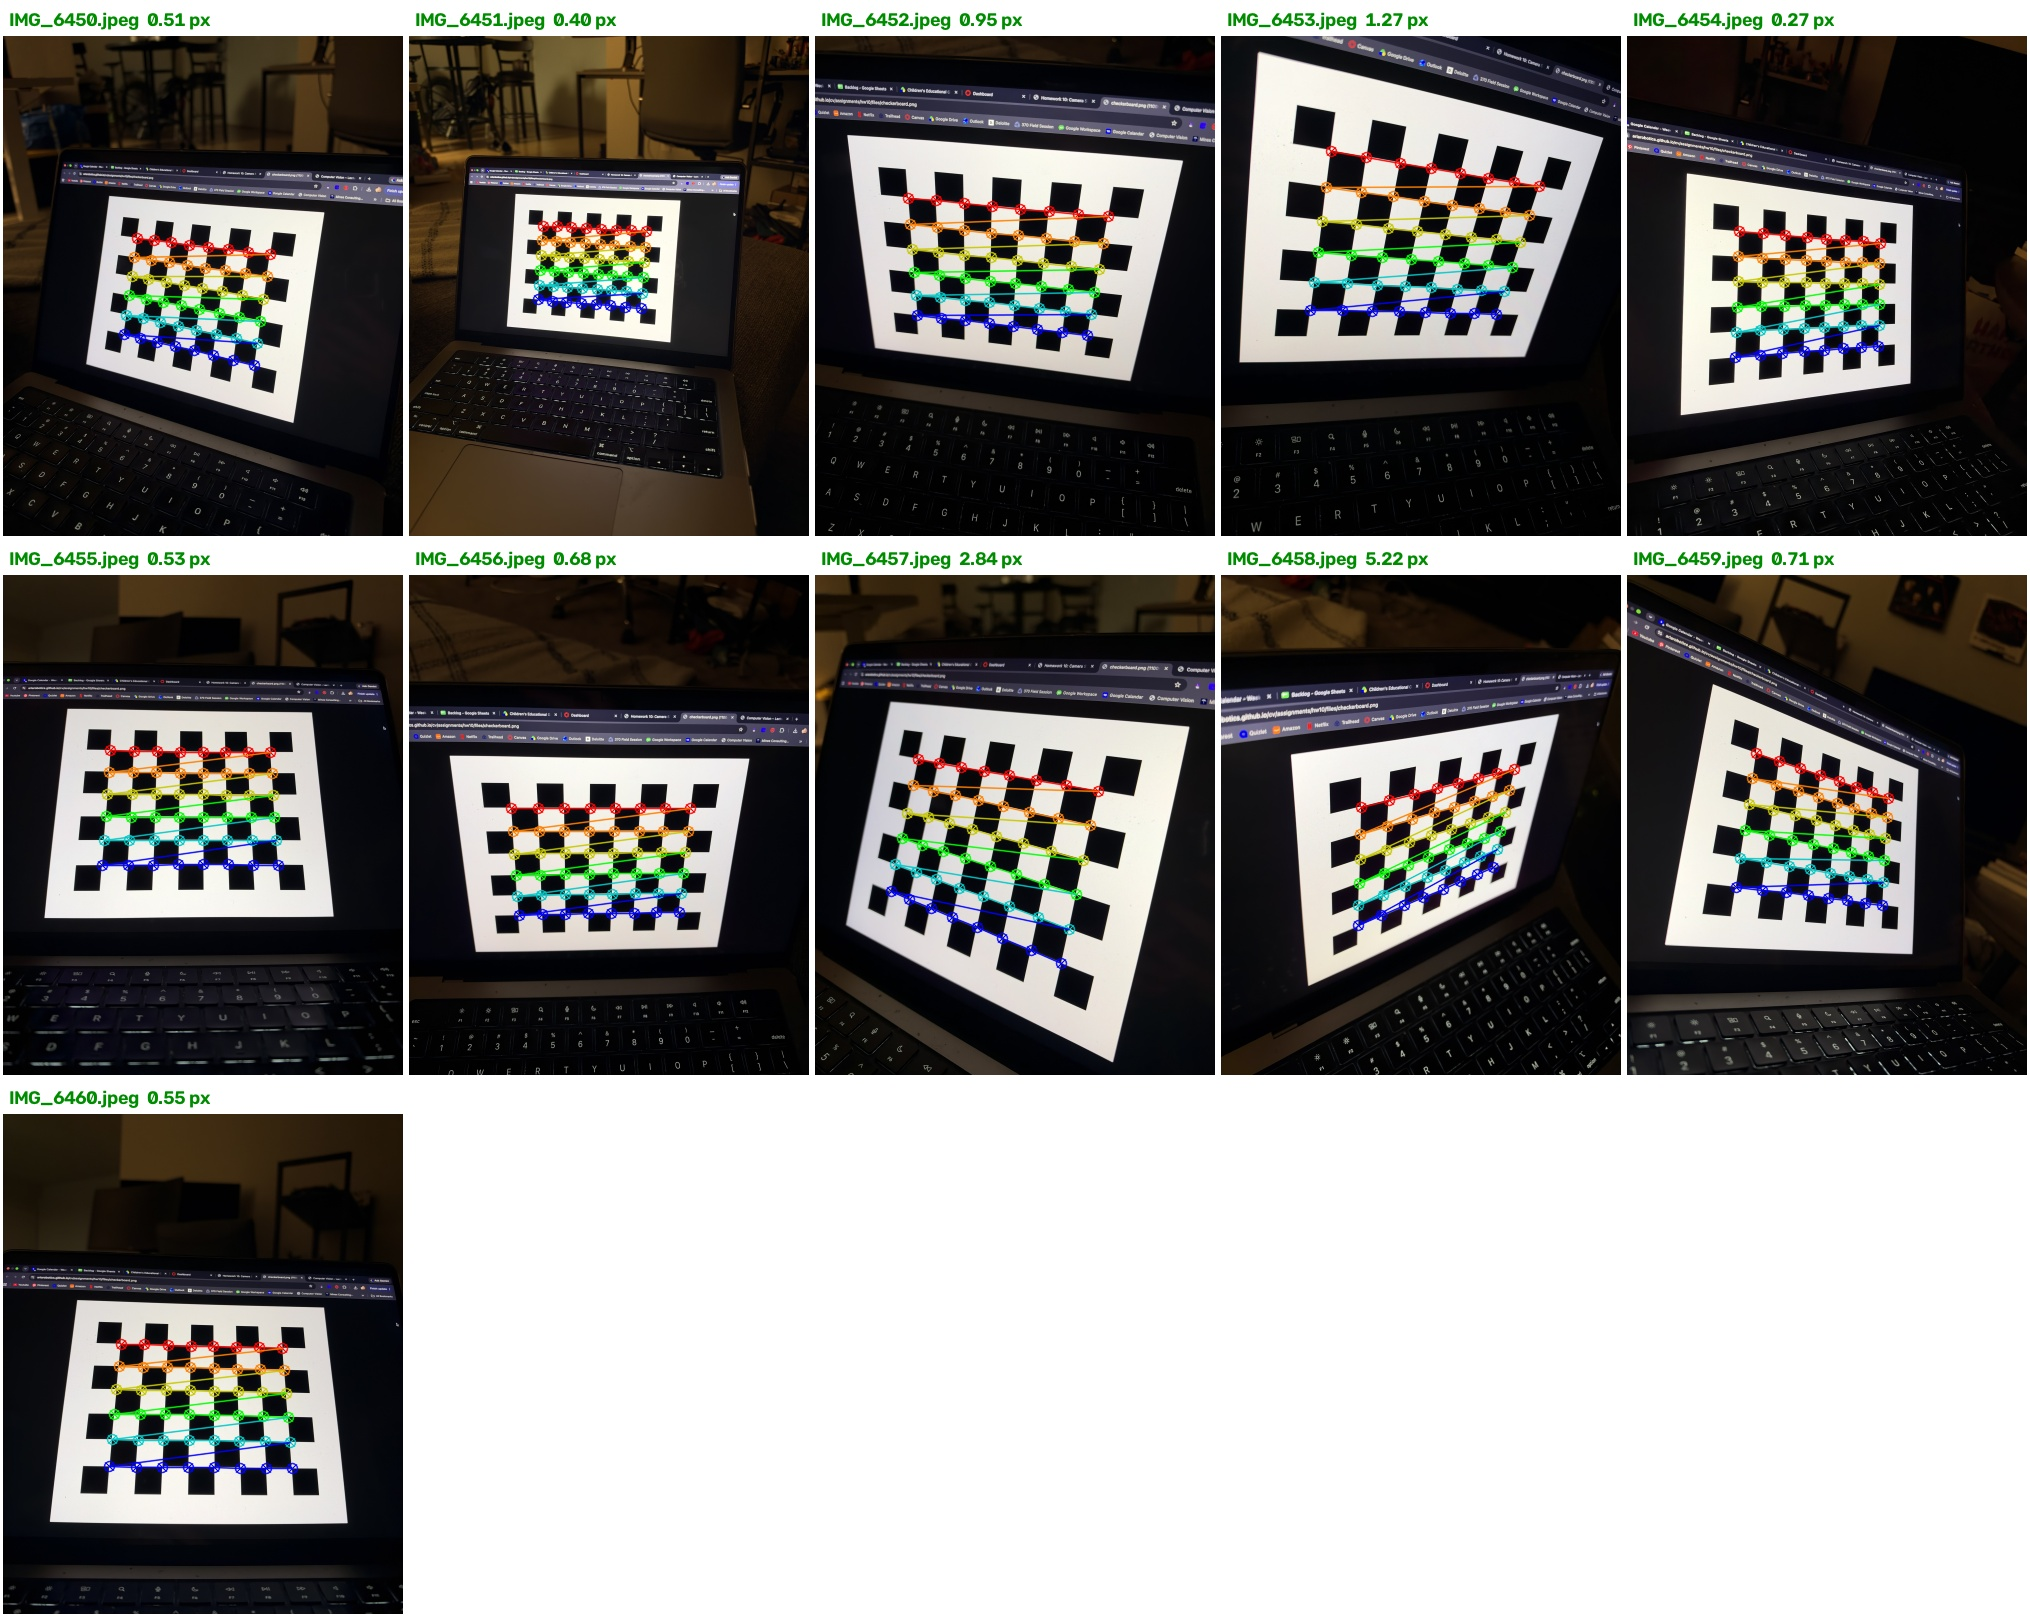
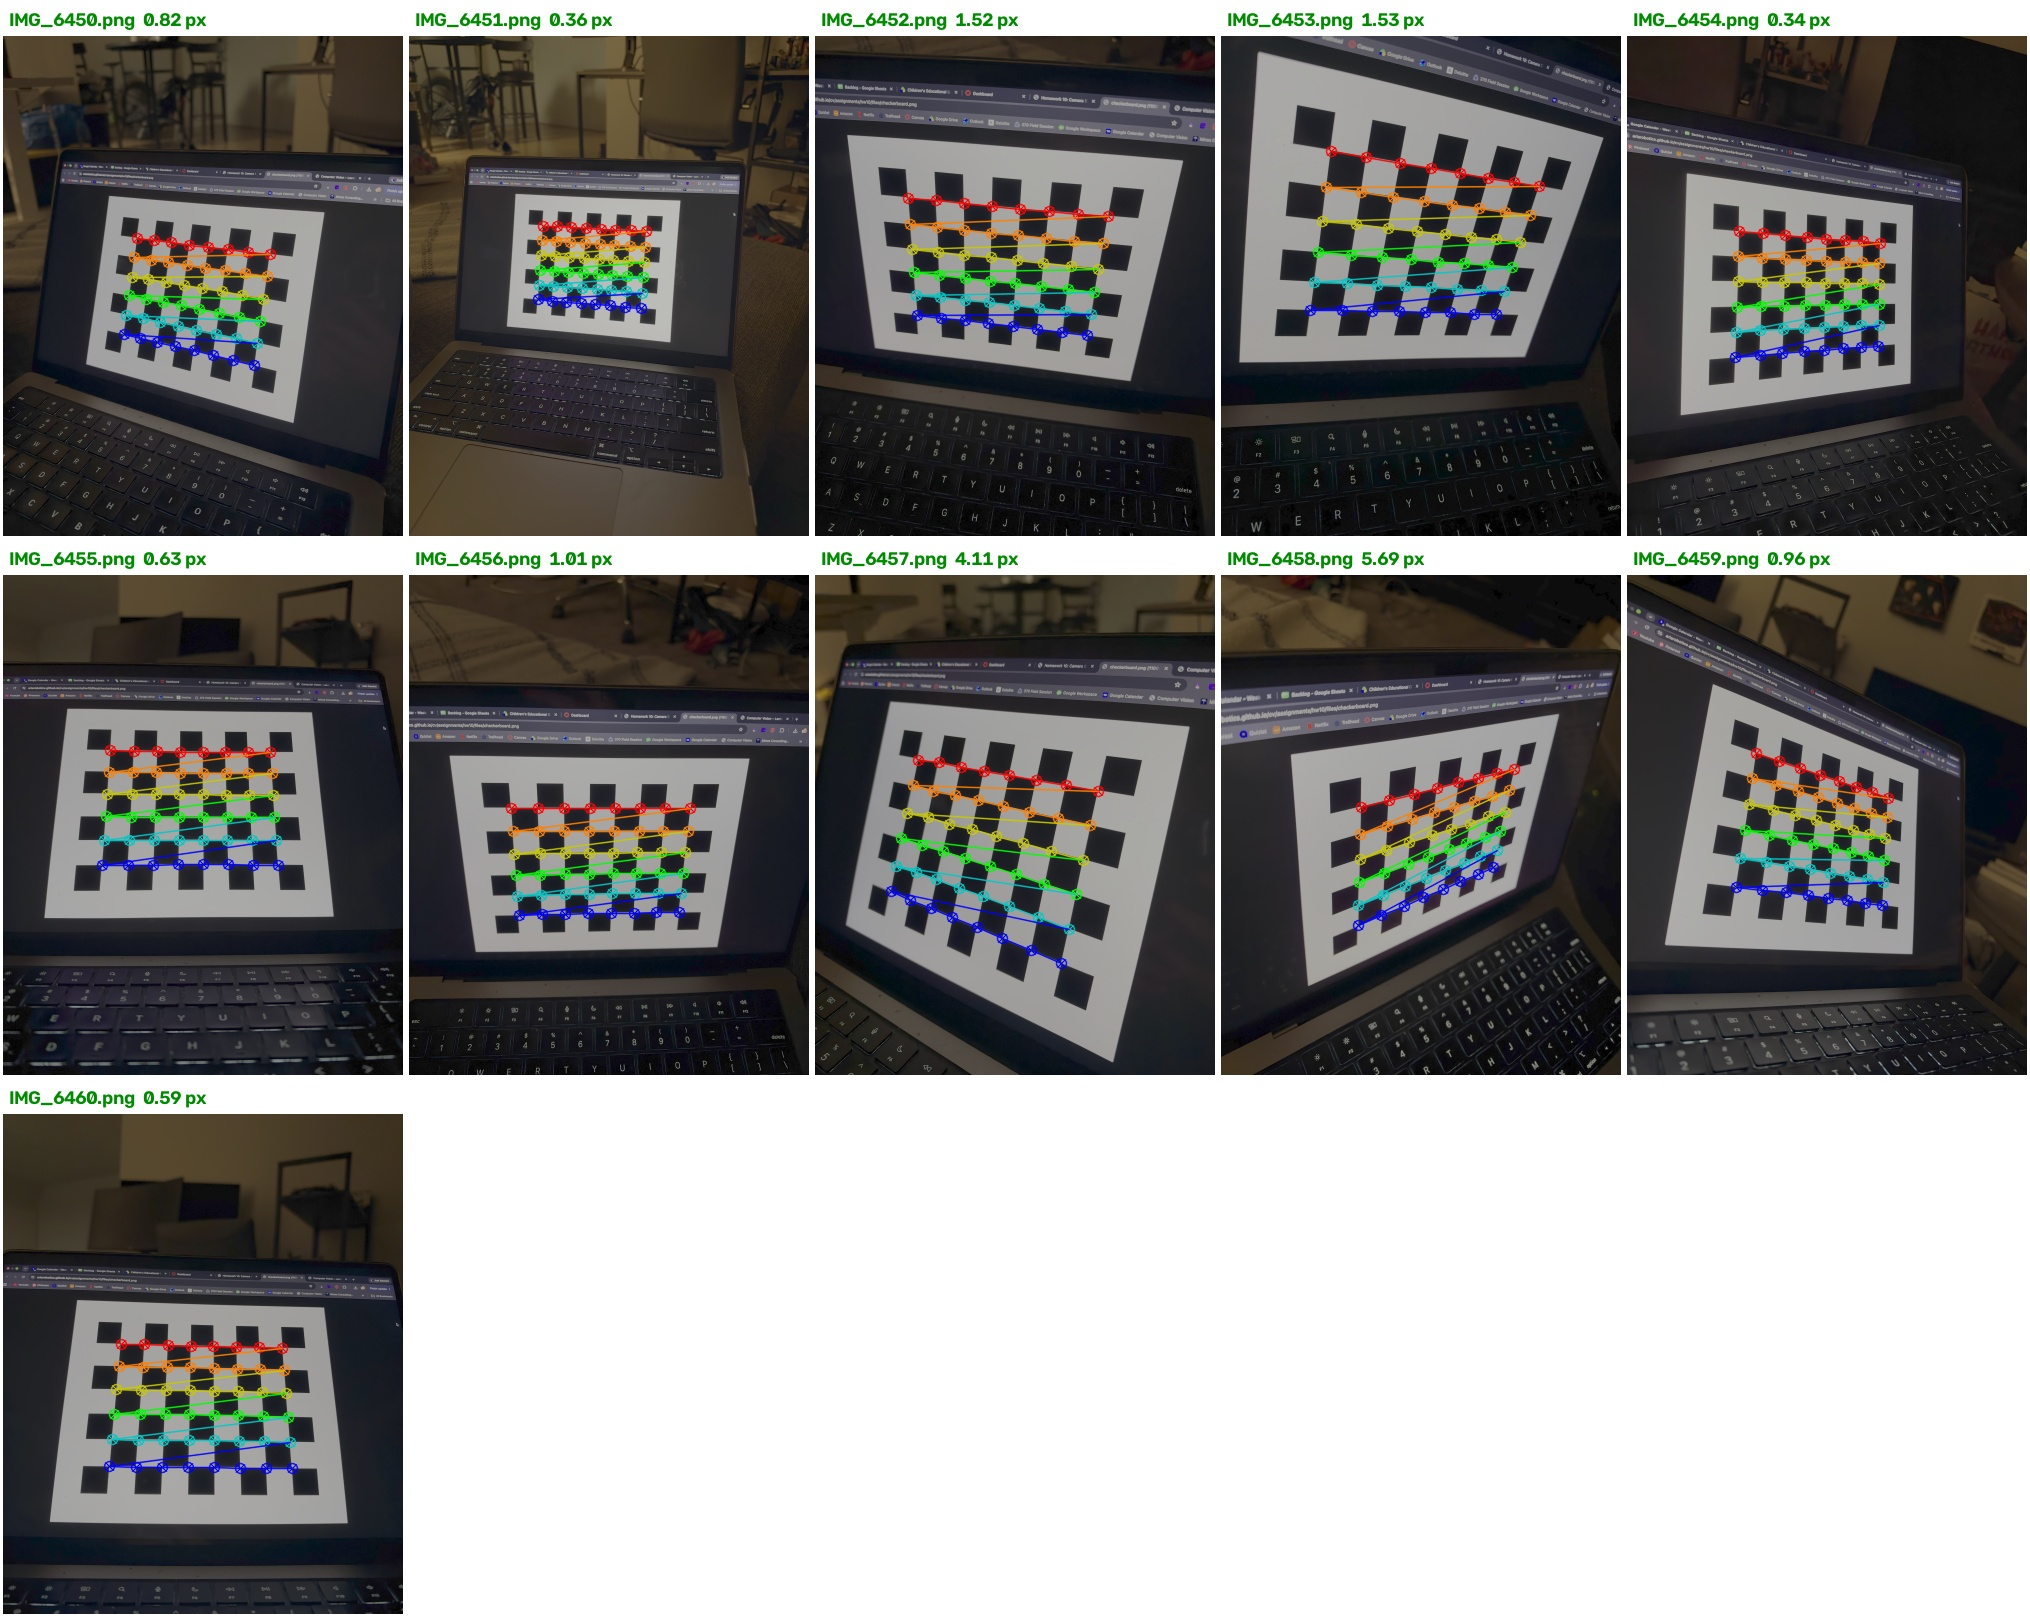
i think i completed hw11, i am still a little confused on testing but i will figure it out

diff --git a/assignments/hw11/hw11.py b/assignments/hw11/hw11.py
@@ -36,11 +36,40 @@ def reconstruct_sparse(image1, image2, K, dist):
     pts2 = np.float32([kp2[m.trainIdx].pt for m in good]).reshape(-1, 1, 2)
     pts1_rect = cv2.undistortPoints(pts1, K, dist, P=K).reshape(-1, 2)
     pts2_rect = cv2.undistortPoints(pts2, K, dist, P=K).reshape(-1, 2)
-    E, mask = cv2.findEssentialMat(pts1_rect, pts2_rect, K, method=cv2.RANSAC)
-    _, R, t, mask = cv2.recoverPose(E, pts1_rect, pts2_rect, mask)
+    
+    K = np.asarray(K, dtype=np.float64)
+
+    print("K shape:", K.shape)
+    print("K dtype:", K.dtype)
+    print(K)
+
+    E, mask = cv2.findEssentialMat(pts1_rect, pts2_rect, cameraMatrix=K, method=cv2.RANSAC, prob=0.999, threshold=1.0)
+
+    print("Essential matrix shape:", E.shape)
+
+    if E.shape != (3, 3):
+        raise ValueError("Unexpected essential matrix dimensions")
+
+    print("We are getting to find essen mat function")
+
+    # somehow failing after here
+
+    _, R, t, mask_recover = cv2.recoverPose(E, pts1_rect, pts2_rect, cameraMatrix=K, mask=mask)
+
+    inliers1 = mask_recover.ravel() > 0
+    pts1 = pts1.reshape(-1, 2)[inliers1]
+    pts2 = pts2.reshape(-1, 2)[inliers1]
+    p1 = pts1_rect[inliers1]
+    p2 = pts2_rect[inliers1]
+
+    print("We are getting to recover pose function")
+
     P1 = K @ np.hstack([np.eye(3), np.zeros((3, 1))])
     P2 = K @ np.hstack([R, t])
-    X4 = cv2.triangulatePoints(P1, P2, pts1.T, pts2.T)
+    X4 = cv2.triangulatePoints(P1, P2, p1.T, p2.T)
+
+    print("We are able to triangulate points")
+
     X = (X4[:3] / X4[3]).T
     # X = cv2.triangulatePoints(pts1, pts2, pts1_rect, pts2_rect)
     return pts1, pts2, R, t, X
@@ -76,12 +105,25 @@ def reconstruct_dense(rect1, rect2, Q):
     Compute the 3D points with cv2.reprojectImageTo3D and Q.
     '''
     # TODO: cv2.StereoBM or cv2.StereoSGBM, divide by 16, cv2.reprojectImageTo3D.
+    # switched to sgbm, made more sense
+    # grey1 = cv2.cvtColor(rect1, cv2.COLOR_BGR2GRAY)
+    # grey2 = cv2.cvtColor(rect2, cv2.COLOR_BGR2GRAY)
+    # bm = cv2.StereoBM_create(numDisparities=128, blockSize=15)
+    # disp = bm.compute(grey1, grey2).astype(np.float32) / 16
+    # disp[disp < 0] = np.nan
+    # points = cv2.reprojectImageTo3D(disp, Q)
+    # #colors = left[..., ::-1]  # BGR -> RGB
+    # valid = ~np.isnan(disp)
+    # return disp, valid, points
     grey1 = cv2.cvtColor(rect1, cv2.COLOR_BGR2GRAY)
     grey2 = cv2.cvtColor(rect2, cv2.COLOR_BGR2GRAY)
-    bm = cv2.StereoBM_create(numDisparities=128, blockSize=15)
-    disp = bm.compute(grey1, grey2).astype(np.float32) / 16
+
+    sgbm = cv2.StereoSGBM_create(minDisparity=0, numDisparities=128, blockSize=5, P1=8 * 5 * 5, P2=32 * 5 * 5, uniquenessRatio=10, speckleWindowSize=100, speckleRange=2, disp12MaxDiff=1)
+    disp = sgbm.compute(grey1, grey2).astype(np.float32) / 16.0
     disp[disp < 0] = np.nan
+
     points = cv2.reprojectImageTo3D(disp, Q)
-    #colors = left[..., ::-1]  # BGR -> RGB
-    valid = ~np.isnan(disp)
+
+    valid = (disp > 0) & np.isfinite(points).all(axis=2) & (points[..., 2] > 0)
+    #valid = ~np.isnan(disp)
     return disp, valid, points

diff --git a/assignments/hw10/save_calibration.py b/assignments/hw10/save_calibration.py
@@ -1,0 +1,10 @@
+import json
+import hw10
+from hw10_support import PATTERN_SIZE, load_photos, square_size_mm
+
+paths, images = load_photos("photos")
+rms, K, dist, rvecs, tvecs = hw10.calibrate_camera(images, PATTERN_SIZE, square_size_mm(hw10))
+h, w = images[0].shape[:2]
+with open("calibration.json", "w") as f:
+    json.dump({"K": K.tolist(), "dist": dist.ravel().tolist(), "image_size": [w, h]}, f, indent=2)
+print("Saved calibration.json")
